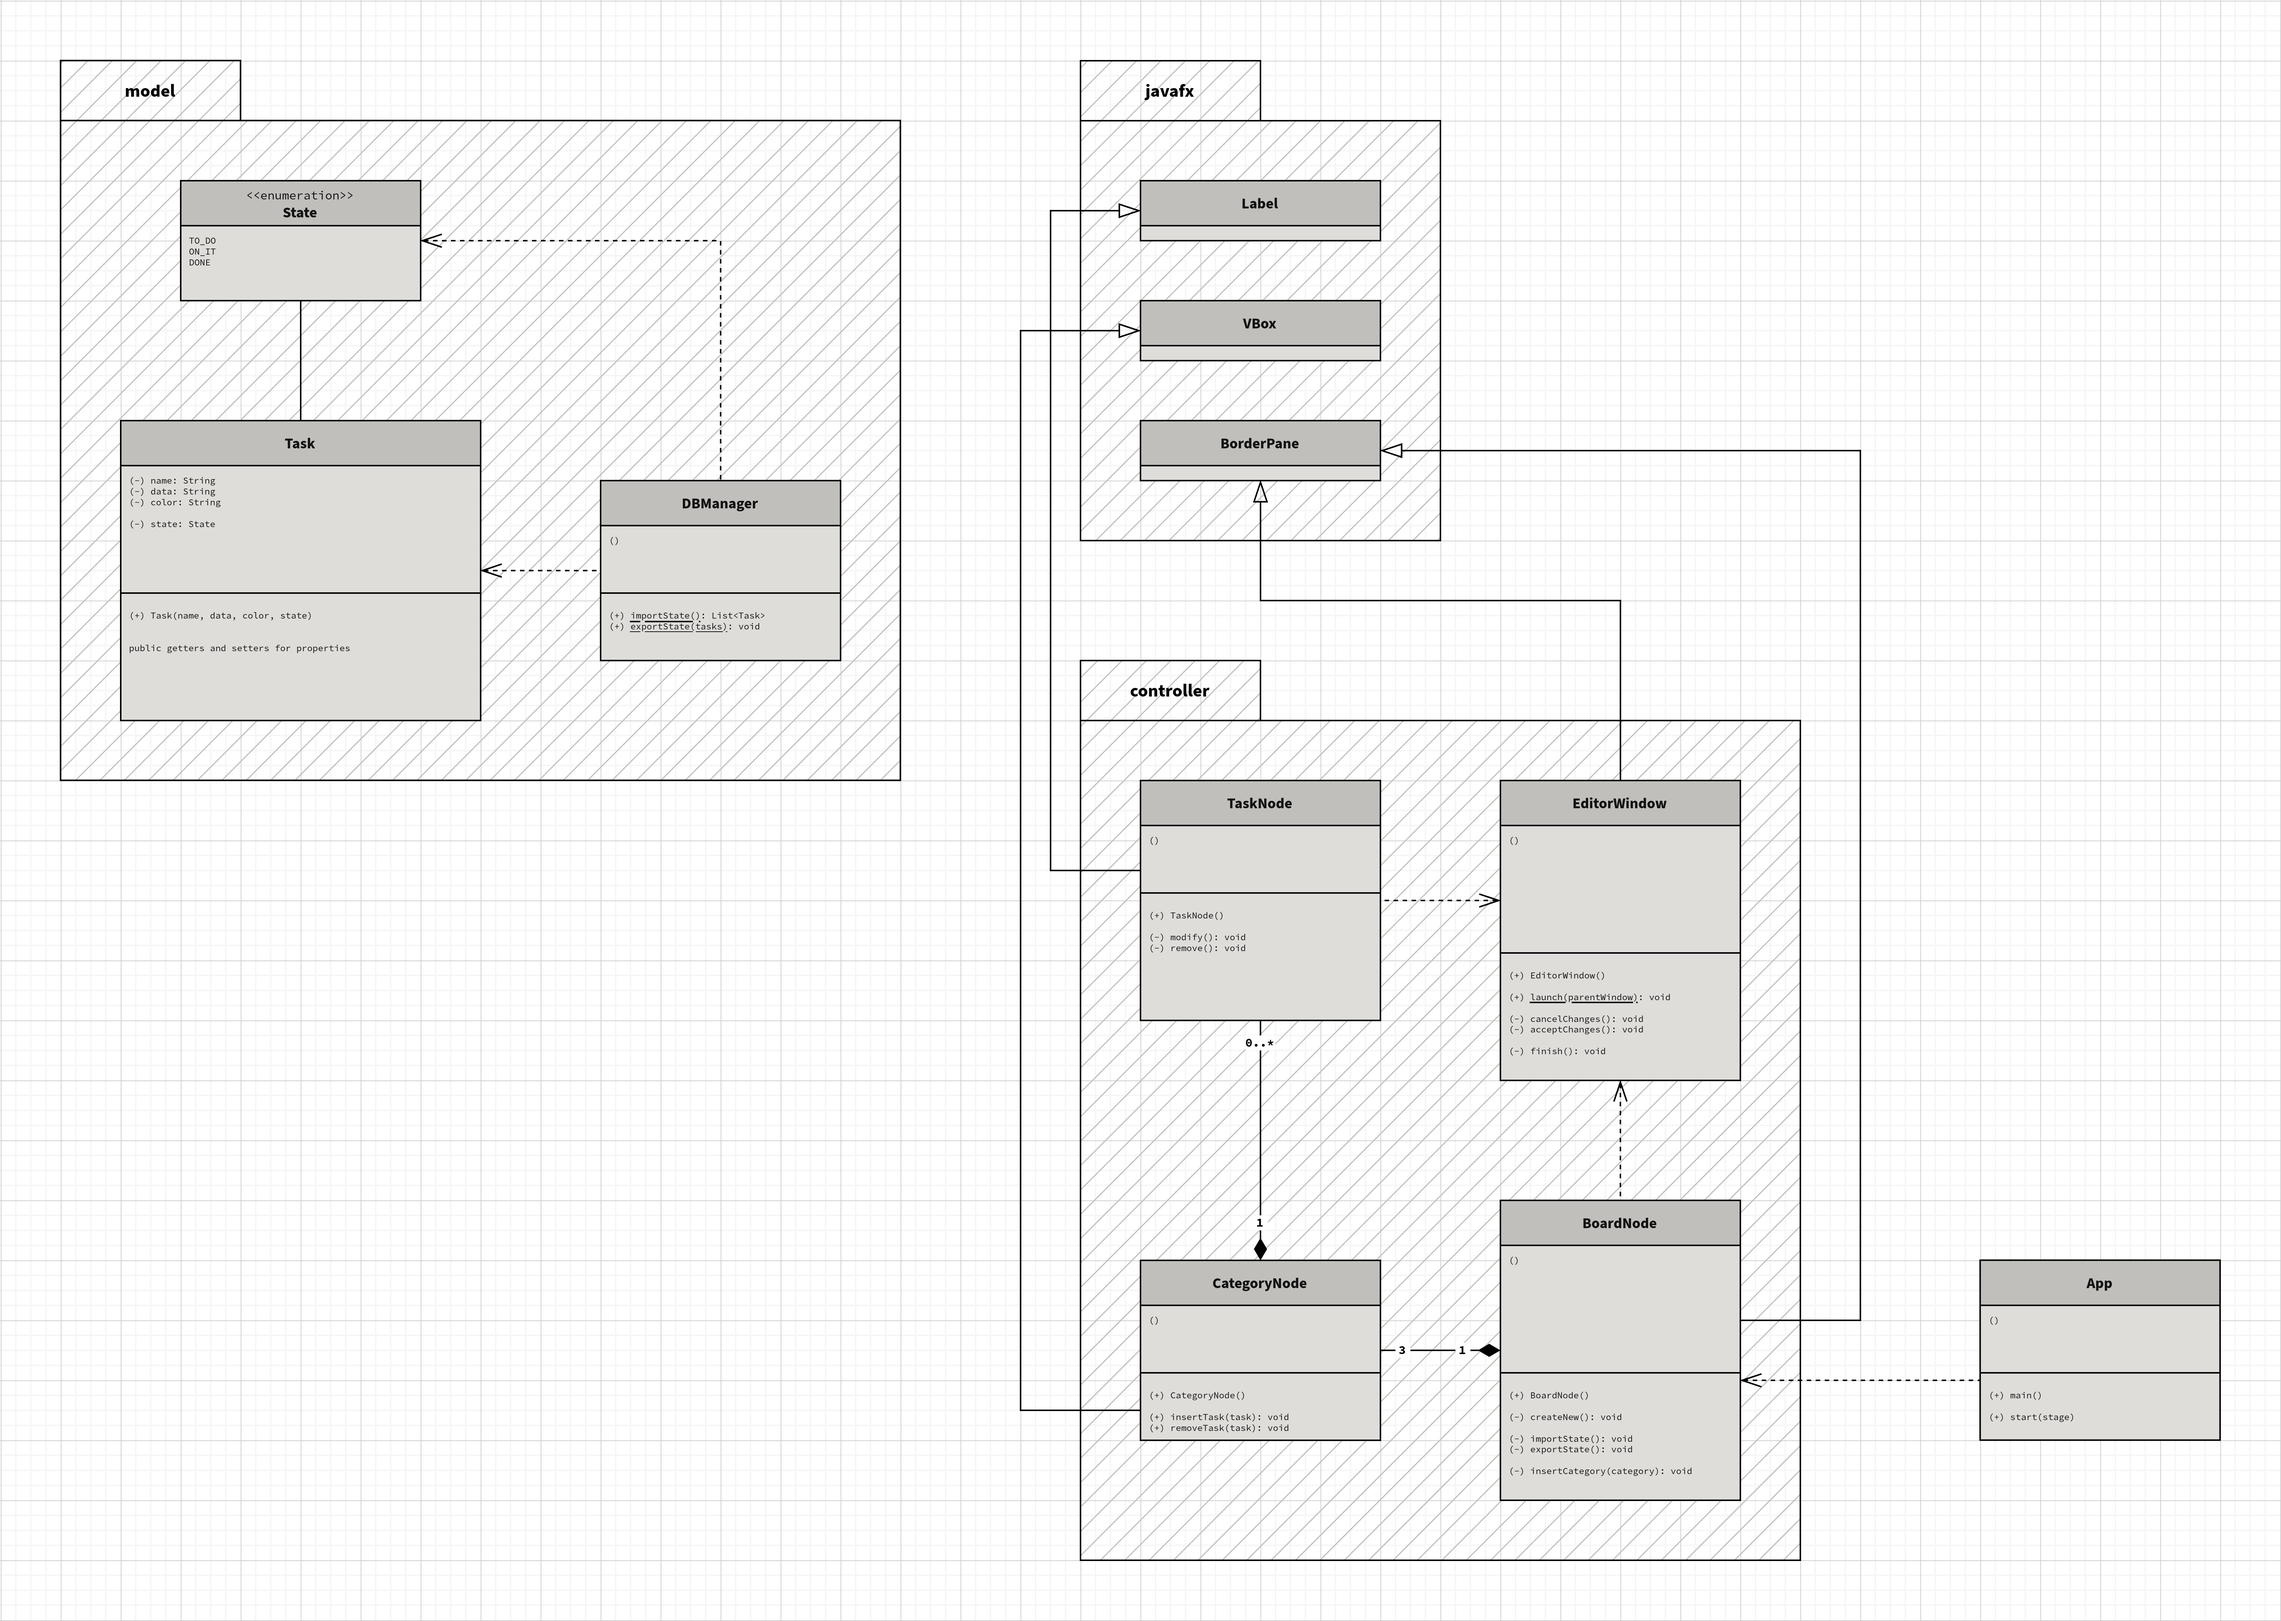
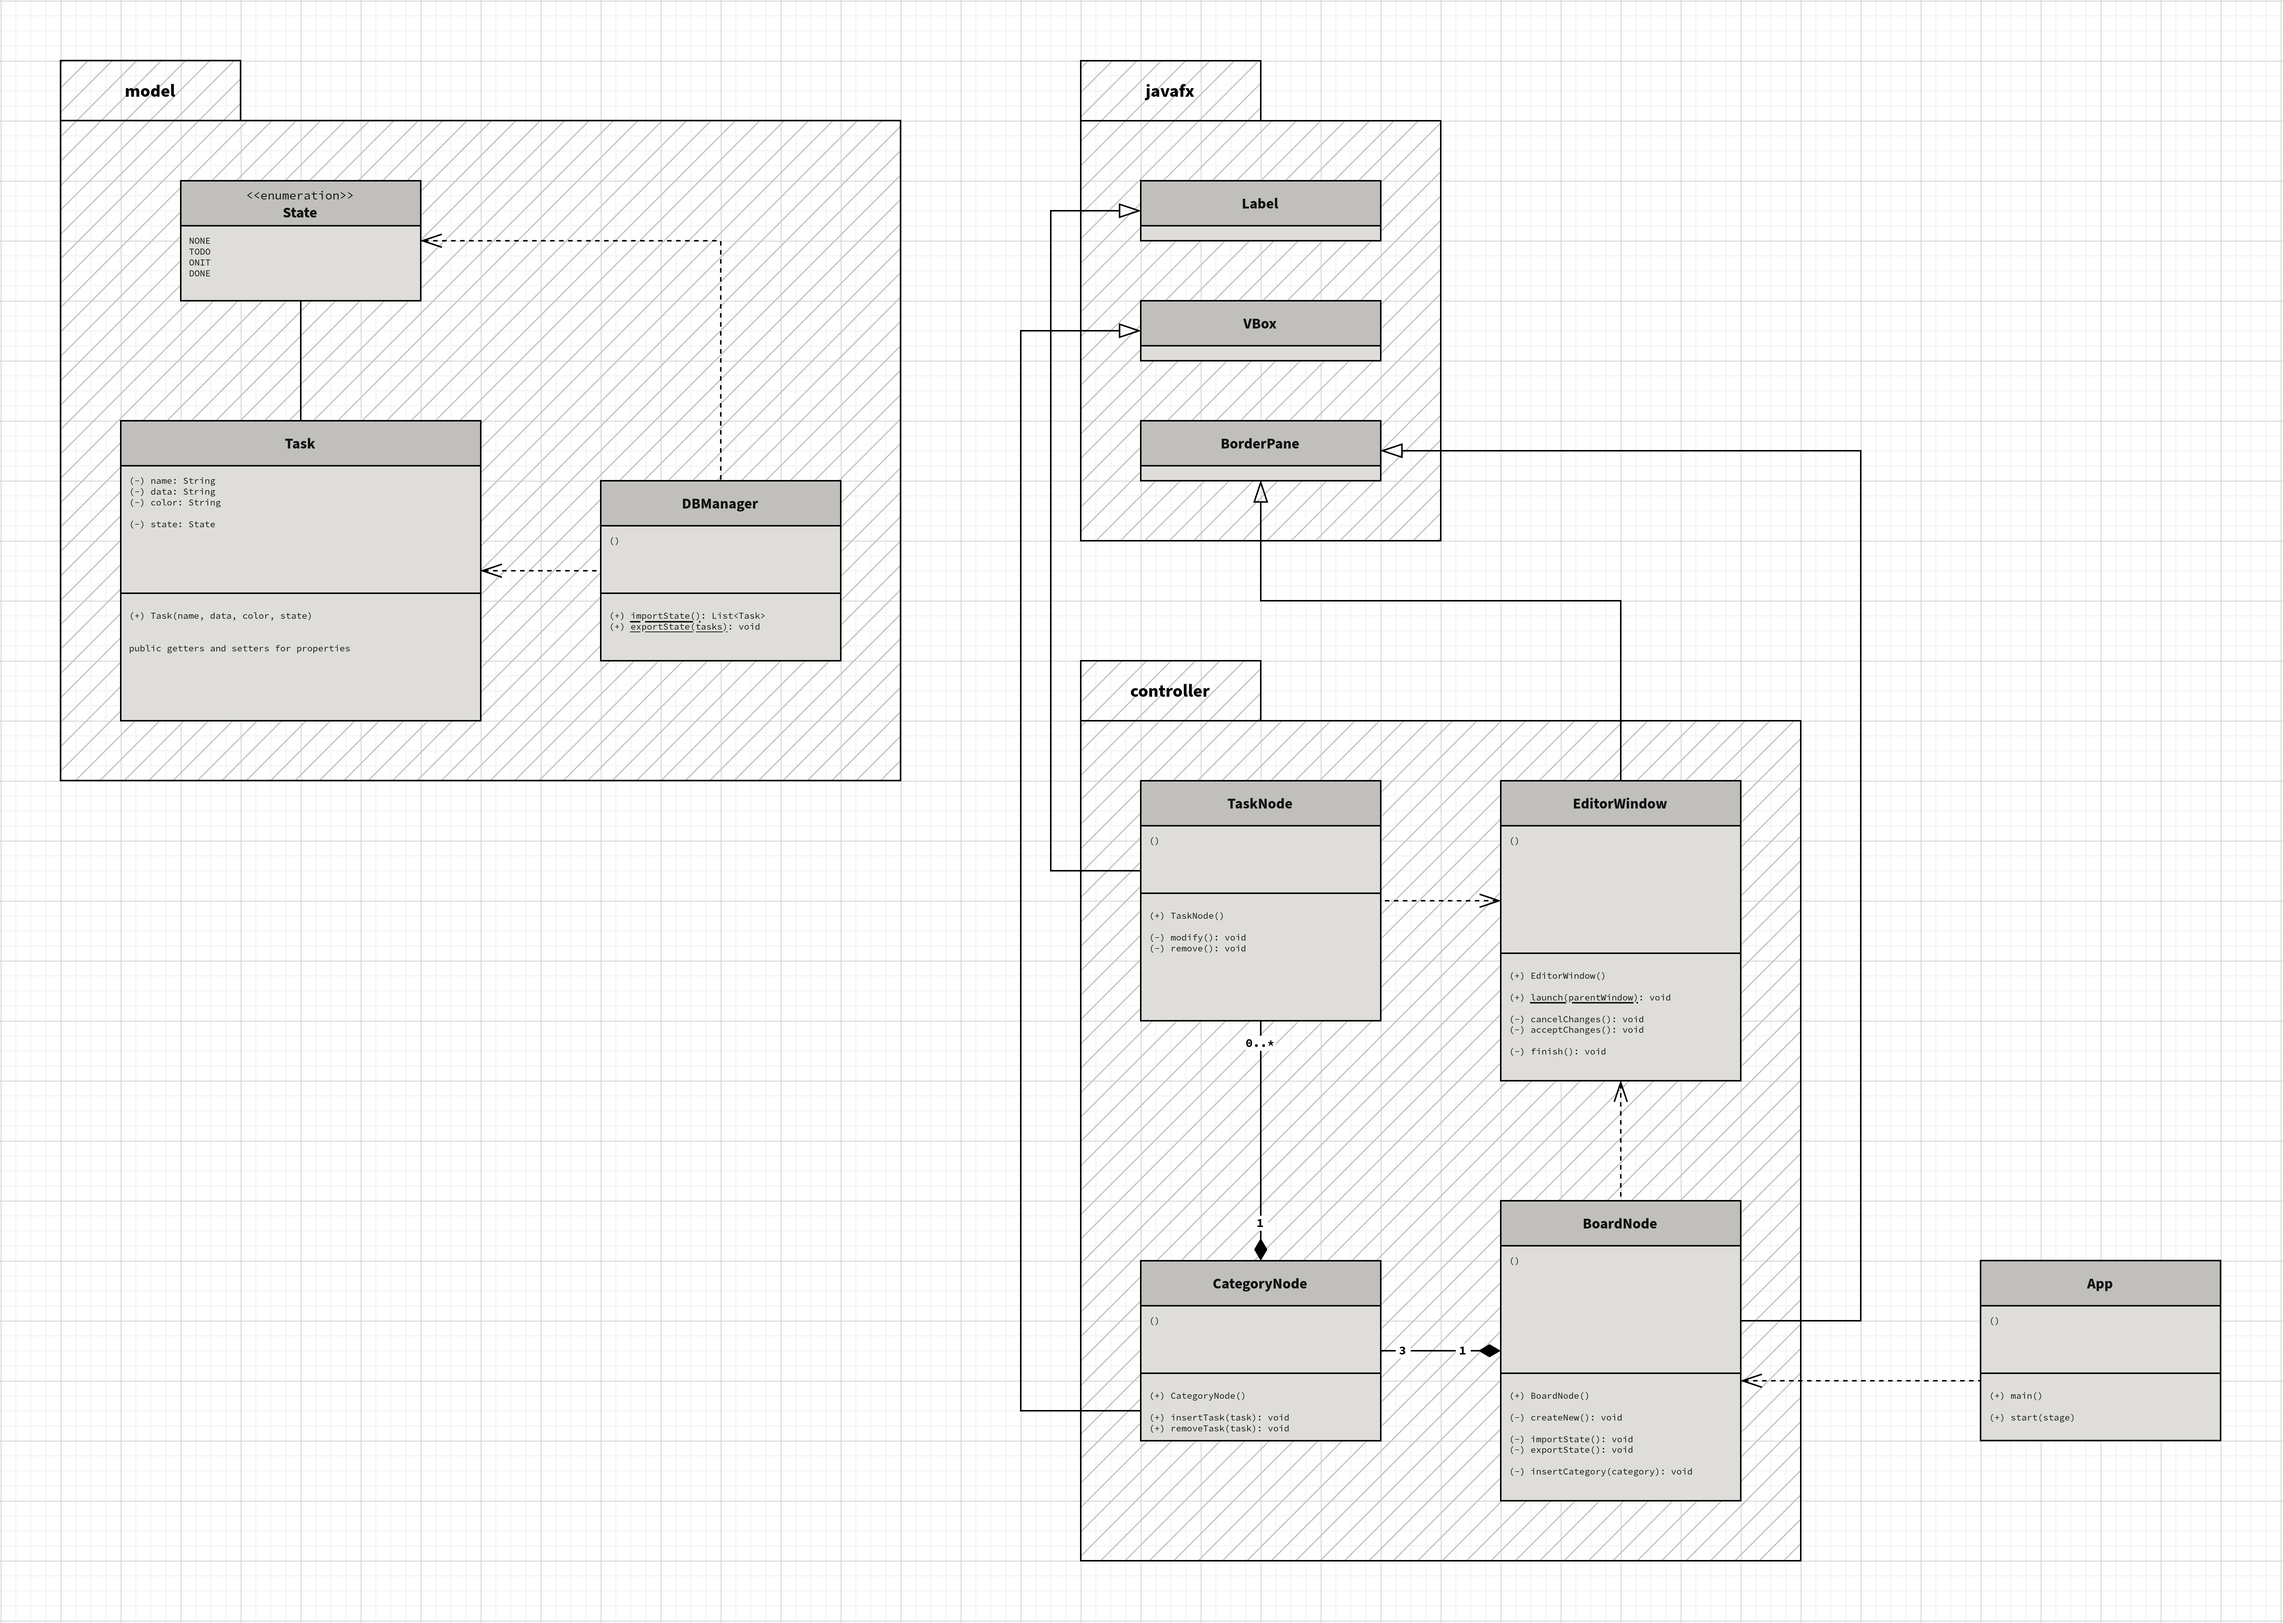
[REFACTOR](/code): Make some changes to the `State` enum and to the `EditorWindow` class
[REFACTOR](/docs): Change UML diagram to reflect changes

diff --git a/code/kanban/model/DBManager.java b/code/kanban/model/DBManager.java
@@ -30,16 +30,20 @@ public class DBManager
 				String color = scanner.next();
 				String auxState = scanner.next();
 				
-				State state = State.TO_DO;
+				State state = State.NONE;
 				
 				switch(auxState)
 				{
-					case "TO_DO":
-						state = State.TO_DO;
+					case "NONE":
+						state = State.NONE;
 						break;
 					
-					case "ON_IT":
-						state = State.ON_IT;
+					case "TODO":
+						state = State.TODO;
+						break;
+					
+					case "ONIT":
+						state = State.ONIT;
 						break;
 					
 					case "DONE":
@@ -73,16 +77,20 @@ public class DBManager
 				String name = task.getName();
 				String data = task.getData();
 				String color = task.getColor();
-				String state = "TO_DO";
+				String state = "NONE";
 				
 				switch(task.getState())
 				{
-					case State.TO_DO:
-						state = "TO_DO";
+					case State.NONE:
+						state = "NONE";
 						break;
 					
-					case State.ON_IT:
-						state = "ON_IT";
+					case State.TODO:
+						state = "TODO";
+						break;
+					
+					case State.ONIT:
+						state = "ONIT";
 						break;
 					
 					case State.DONE:

diff --git a/code/kanban/controller/EditorWindow.java b/code/kanban/controller/EditorWindow.java
@@ -10,6 +10,7 @@ import javafx.scene.Scene;
 
 import javafx.scene.control.Button;
 import javafx.scene.control.TextField;
+import javafx.scene.control.Toggle;
 import javafx.scene.control.ToggleGroup;
 
 import javafx.stage.Stage;
@@ -67,14 +68,15 @@ public class EditorWindow extends BorderPane
 	
 	private void cancelChanges()
 	{
-		System.out.println("cancel changes");
-		
 		this.finish();
 	}
 	
 	private void acceptChanges()
 	{
-		System.out.println("accept changes");
+		Toggle selection = this.colors.getSelectedToggle();
+		
+		if(selection == null)
+			return;
 		
 		this.finish();
 	}

diff --git a/code/kanban/model/State.java b/code/kanban/model/State.java
@@ -2,7 +2,8 @@ package kanban.model;
 
 public enum State
 {
-	TO_DO,
-	ON_IT,
+	NONE,
+	TODO,
+	ONIT,
 	DONE,
 }
